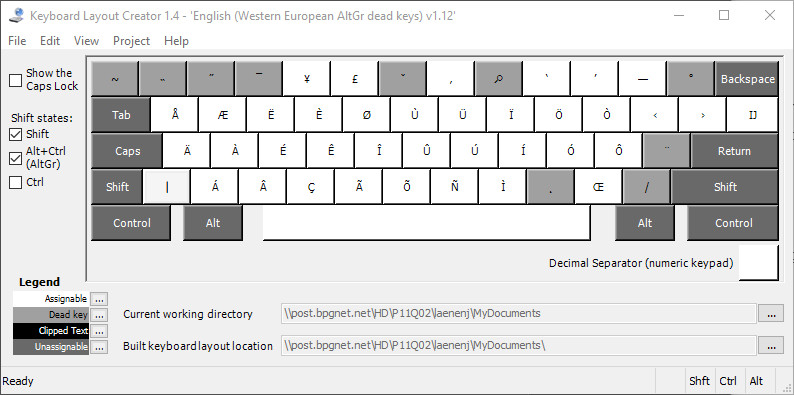
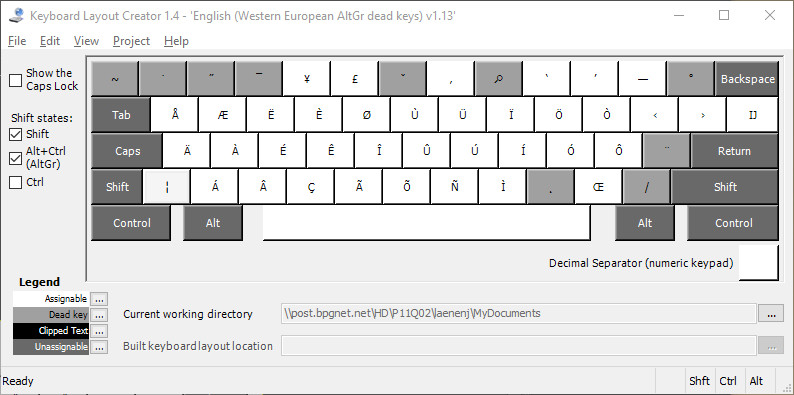
version v1.13 by Adriaan new /usr/share/X11/xkb/symbols/us adapted the Readme.md added line 56, OEM_102 to klc, with <, >, |, and ¦ added the new jpegs to show the v1.13 layout

Changed region(s): [[0.9673, 0.0, 1.0, 1.0], [0.1511, 0.8506, 0.6952, 0.9114], [0.0, 0.9722, 0.0302, 1.0]]

diff --git a/Readme.md b/Readme.md
@@ -4,7 +4,7 @@ I had to change the name of this keyboard into an 8 character string altgrweu an
 
 Some dead keys like dead_greek don't work.
 
-This is version v1.12 by Adriaan.
+This is version v1.13 by Adriaan.
 
 ![AltGrg](AltGr.jpg)
 
